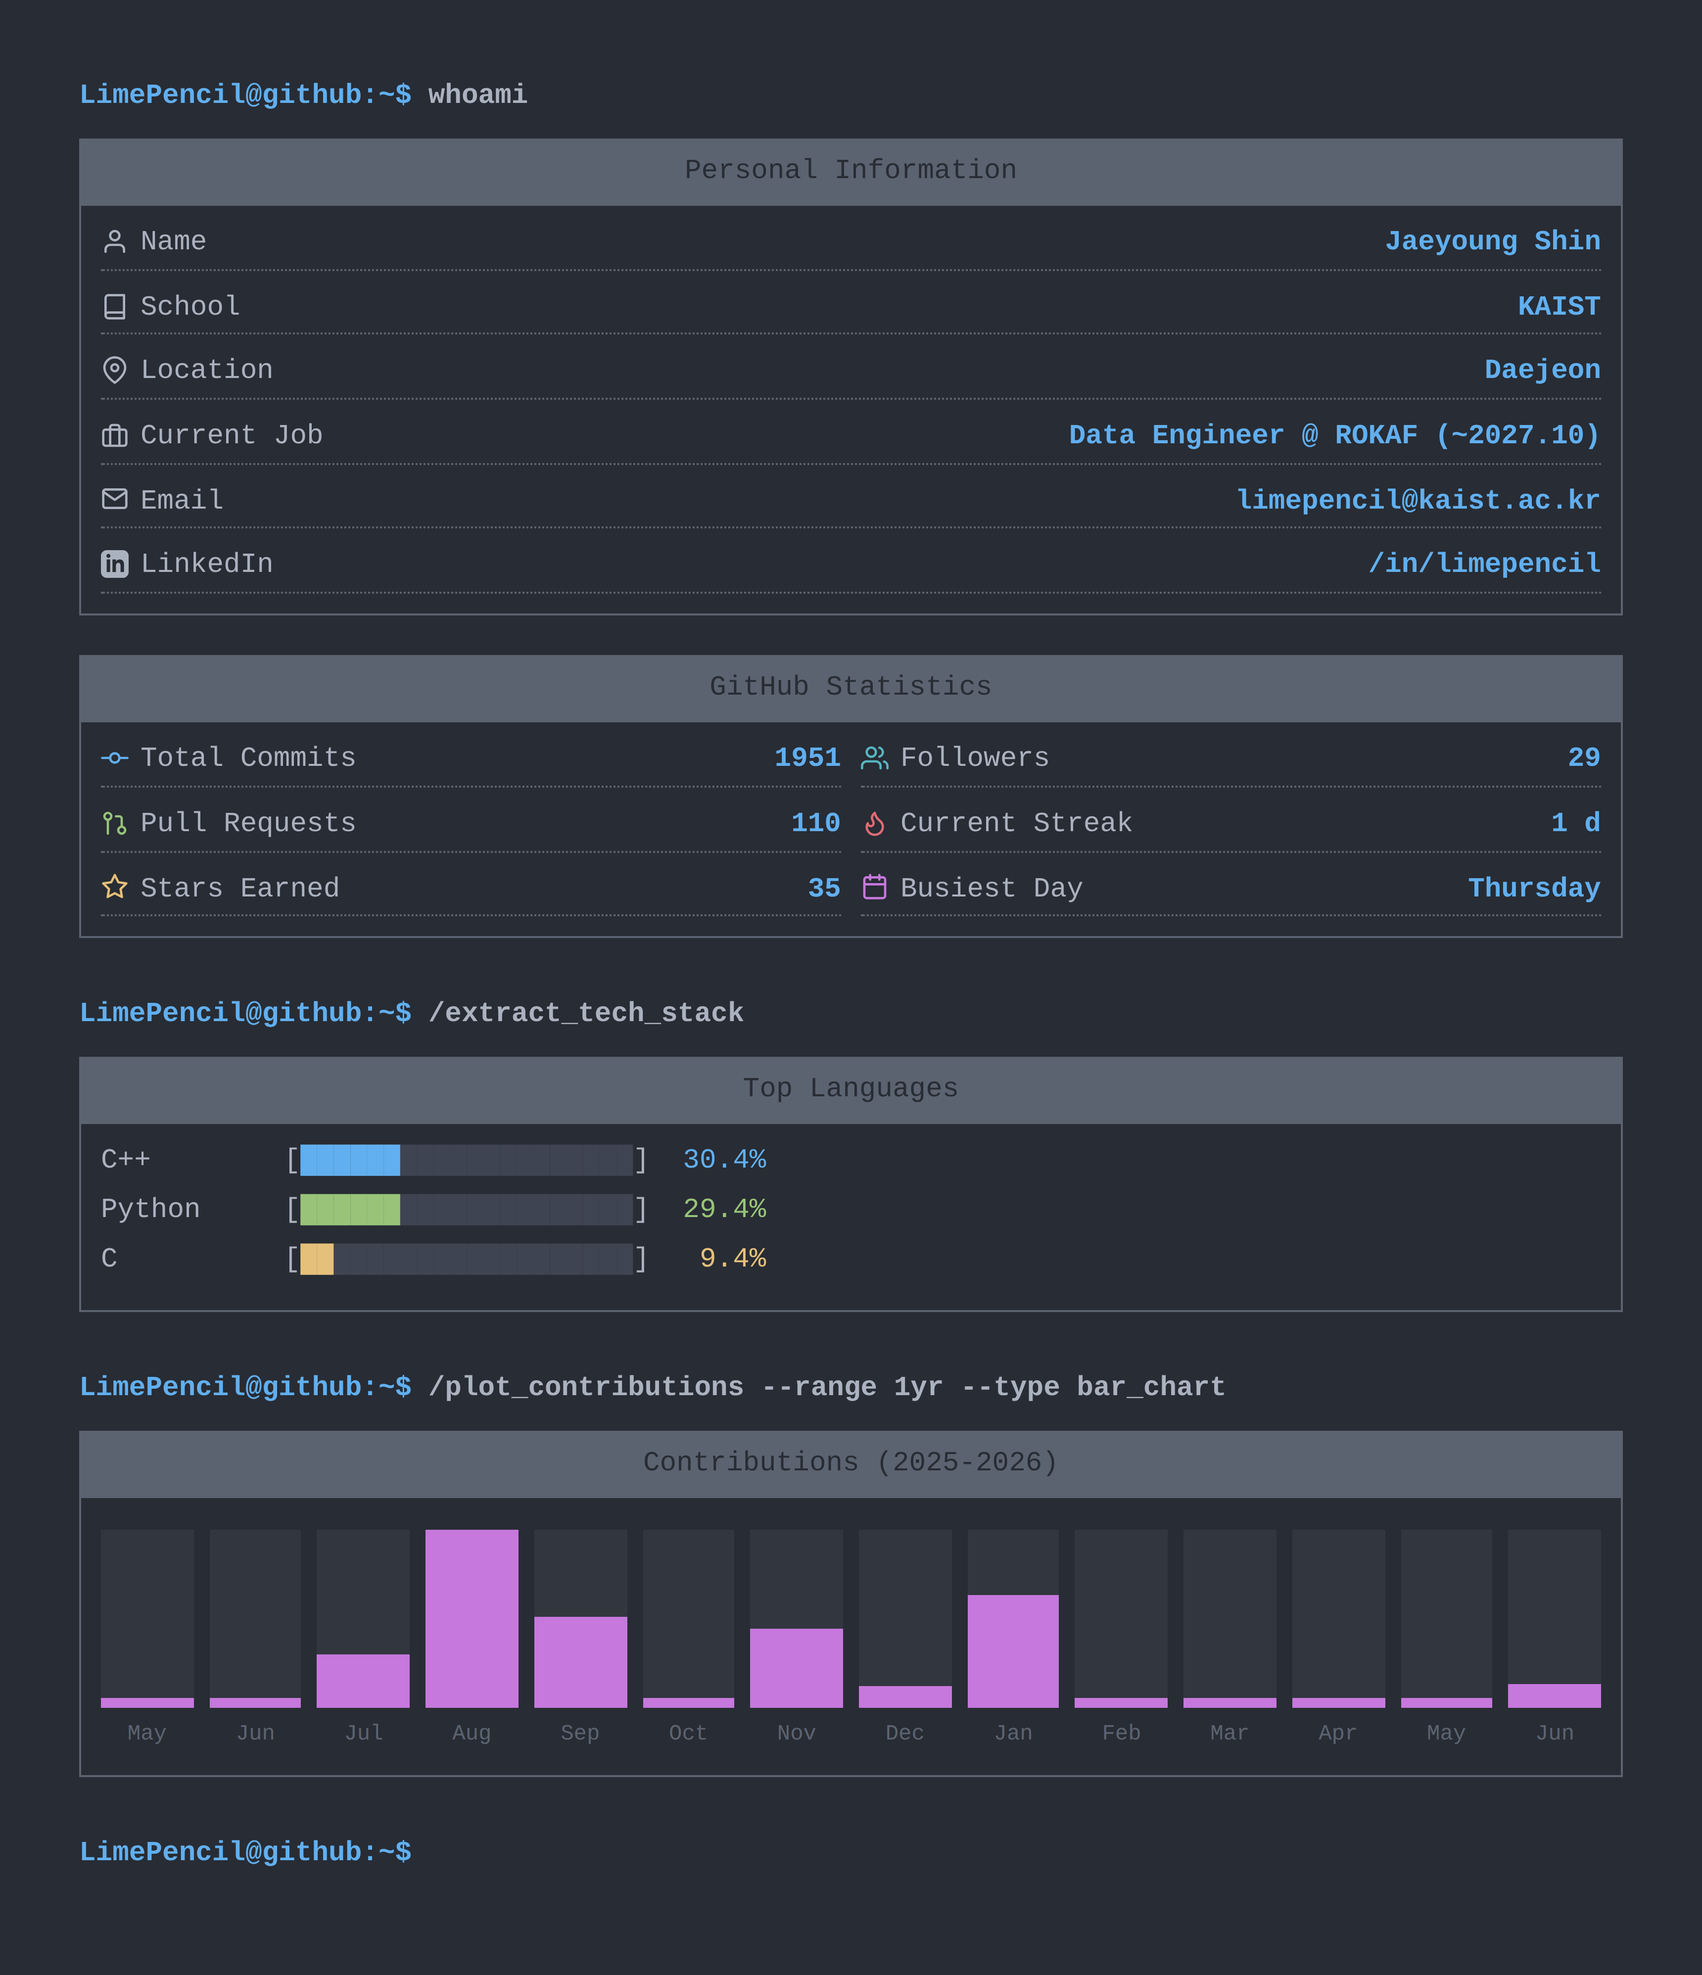
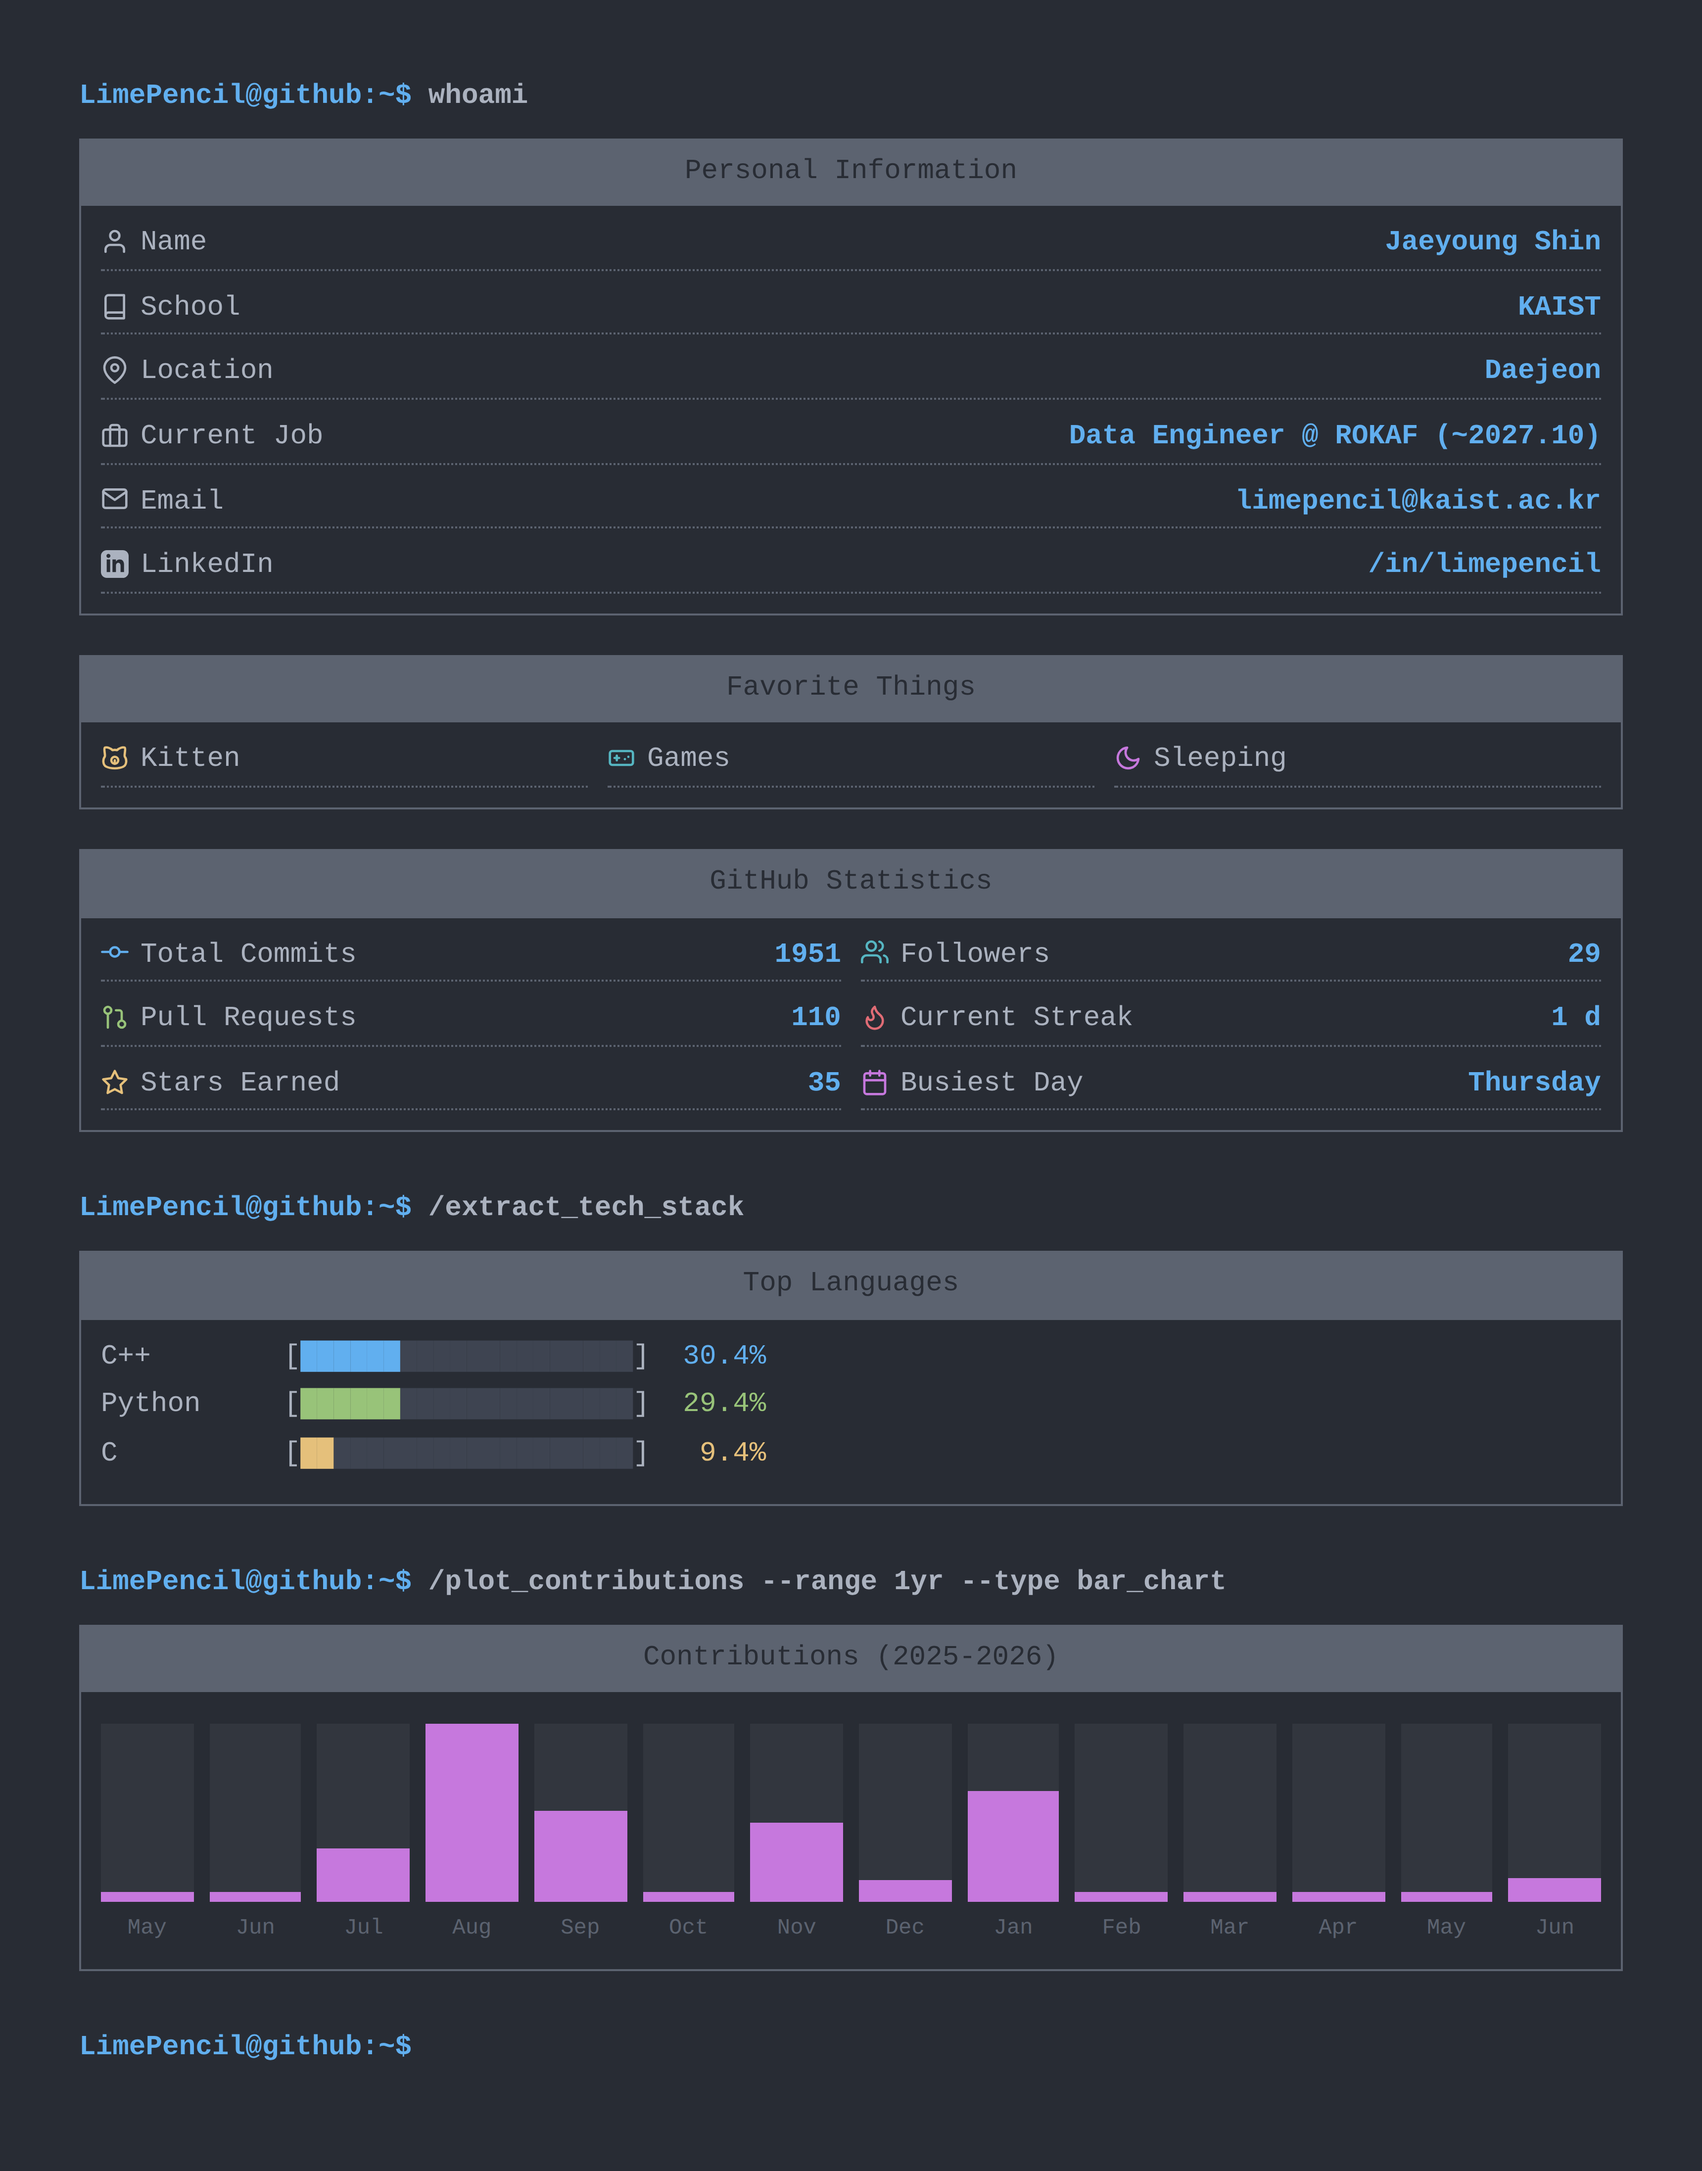
feat: Add Favorite Things section to TUI profile widget

Changed region(s): [[0.0311, 0.0311, 0.9642, 0.8076], [0.0622, 0.8076, 0.9642, 0.9008], [0.0622, 0.9319, 0.2488, 0.9629]]

diff --git a/template.js b/template.js
@@ -163,6 +163,17 @@ function renderHtml(stats) {
                     </div>
 
                     <div class="terminal-card" style="margin-top: 20px;">
+                        <header>Favorite Things</header>
+                        <div>
+                            <div class="stats-grid" style="grid-template-columns: repeat(3, 1fr);">
+                                <div class="stat-item"><span class="stat-label" style="display: flex; align-items: center; justify-content: center; gap: 6px;"><svg width="14" height="14" viewBox="0 0 24 24" fill="none" stroke="var(--warning-color)" stroke-width="2" stroke-linecap="round" stroke-linejoin="round"><path d="M12 5c.67 0 1.35.09 2 .26 1.78-2 5.03-2.84 6.42-2.26 1.4.58-.42 7 .18 7.79 2.05 2.7 1.67 7.27-1.15 8.72-1.71.84-3.8 1.46-7.45 1.49-3.65-.03-5.74-.65-7.45-1.49-2.82-1.45-3.2-6.02-1.15-8.72.6-.79-1.22-7.21.18-7.79 1.4-.58 4.64.26 6.42 2.26.65-.17 1.33-.26 2-.26z"/><path d="M12 17a3 3 0 1 1 0-6 3 3 0 0 1 0 6Z"/><path d="M12 14v3"/></svg> Kitten</span></div>
+                                <div class="stat-item"><span class="stat-label" style="display: flex; align-items: center; justify-content: center; gap: 6px;"><svg width="14" height="14" viewBox="0 0 24 24" fill="none" stroke="var(--cyan-color)" stroke-width="2" stroke-linecap="round" stroke-linejoin="round"><rect x="2" y="6" width="20" height="12" rx="2" ry="2"></rect><path d="M6 12h4"></path><path d="M8 10v4"></path><line x1="15" y1="13" x2="15.01" y2="13"></line><line x1="18" y1="11" x2="18.01" y2="11"></line></svg> Games</span></div>
+                                <div class="stat-item"><span class="stat-label" style="display: flex; align-items: center; justify-content: center; gap: 6px;"><svg width="14" height="14" viewBox="0 0 24 24" fill="none" stroke="var(--purple-color)" stroke-width="2" stroke-linecap="round" stroke-linejoin="round"><path d="M21 12.79A9 9 0 1 1 11.21 3 7 7 0 0 0 21 12.79z"></path></svg> Sleeping</span></div>
+                            </div>
+                        </div>
+                    </div>
+
+                    <div class="terminal-card" style="margin-top: 20px;">
                         <header>GitHub Statistics</header>
                         <div>
                             <div class="stats-grid">
